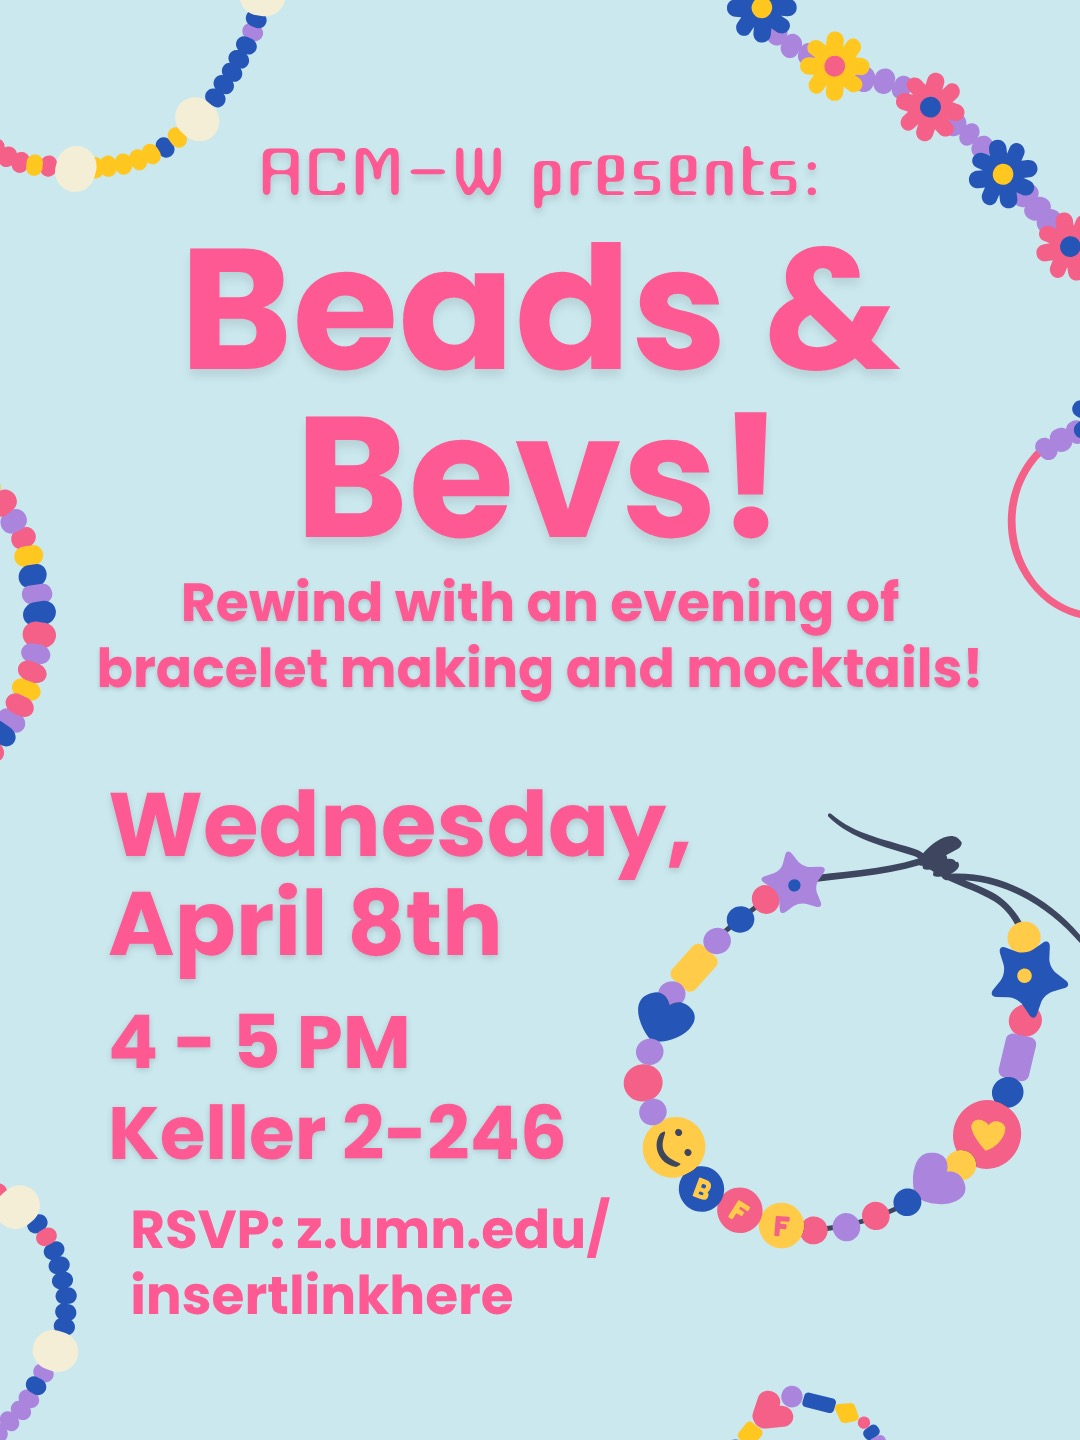
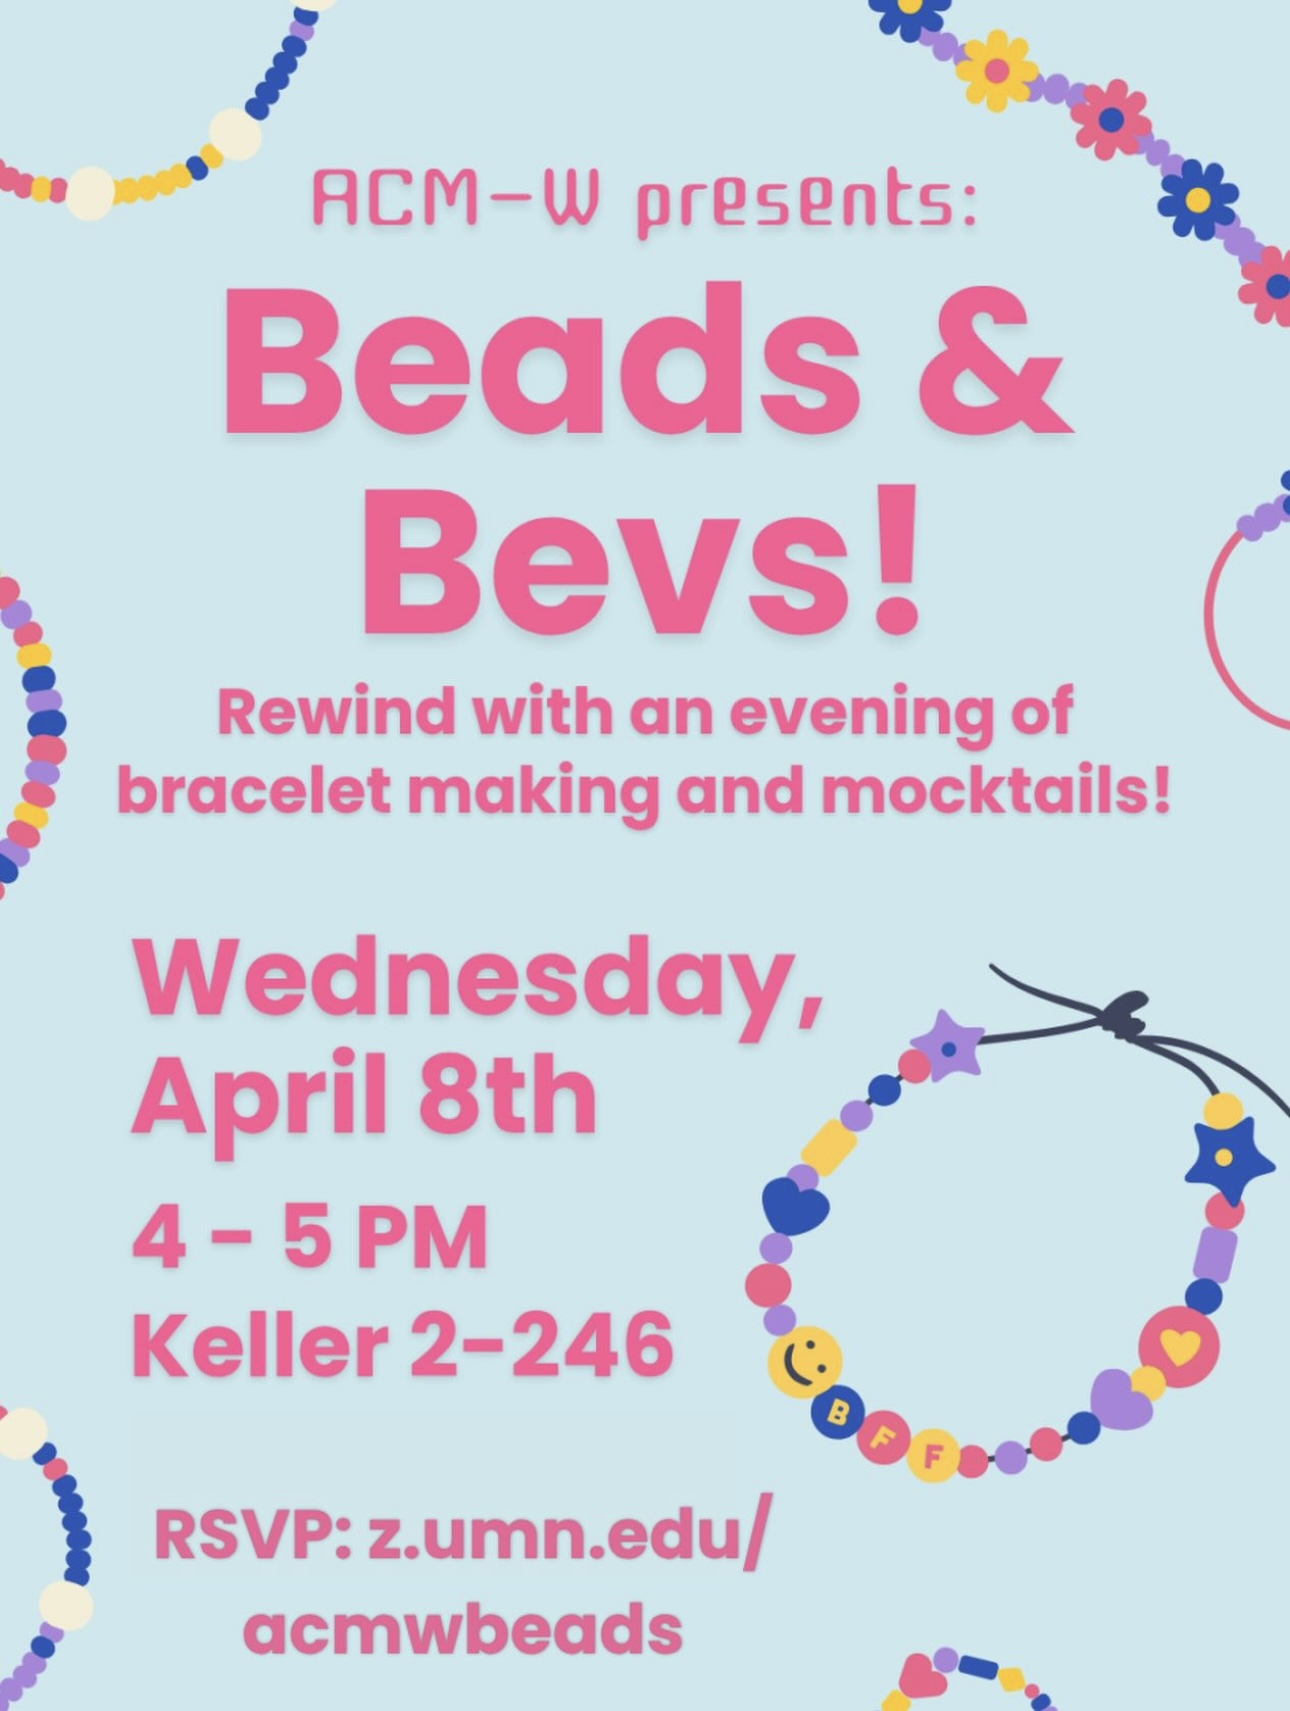
Add 2026 spring  bead and mocktail event

diff --git a/data/events.ts b/data/events.ts
@@ -43,6 +43,17 @@ export type EventsData = {
 const events: EventsData = {
   upcoming: [
     {
+      id: 38,
+      title: "Bead & Beverage",
+      date: "2026-04-08",
+      time: "4:00 PM - 5:00 PM",
+      location: "Keller 2-246",
+      image: "/images/events/posters/2026-beads-bevs.png",
+      description:
+        "Wind down and get creative with ACM-W. Join us for an evening of bead crafts and mocktails!",
+      rsvpLink: "https://docs.google.com/forms/d/e/1FAIpQLScFPOpJVNl0M4xwVS8zFvlJV5vpNJhuPzX1HAX-pHhtLST5nA/viewform"
+    },
+    {
       id: 39,
       title: "Women In Tech Symposium",
       date: "2026-04-17",
@@ -53,7 +64,6 @@ const events: EventsData = {
         "Join ACM-W for out biggest event of the year! Connect with professors, enjoy an engaging keynote presentation, network with industry professionals, and grab Chipotle for dinner!",
       rsvpLink: "https://docs.google.com/forms/d/e/1FAIpQLSdsEUvKQXCWNqHCSmKhRBodSwt5t3u_WwDfrLdDsOIeTFqIuA/viewform"
     }
-    
   ],
 
   past: {
